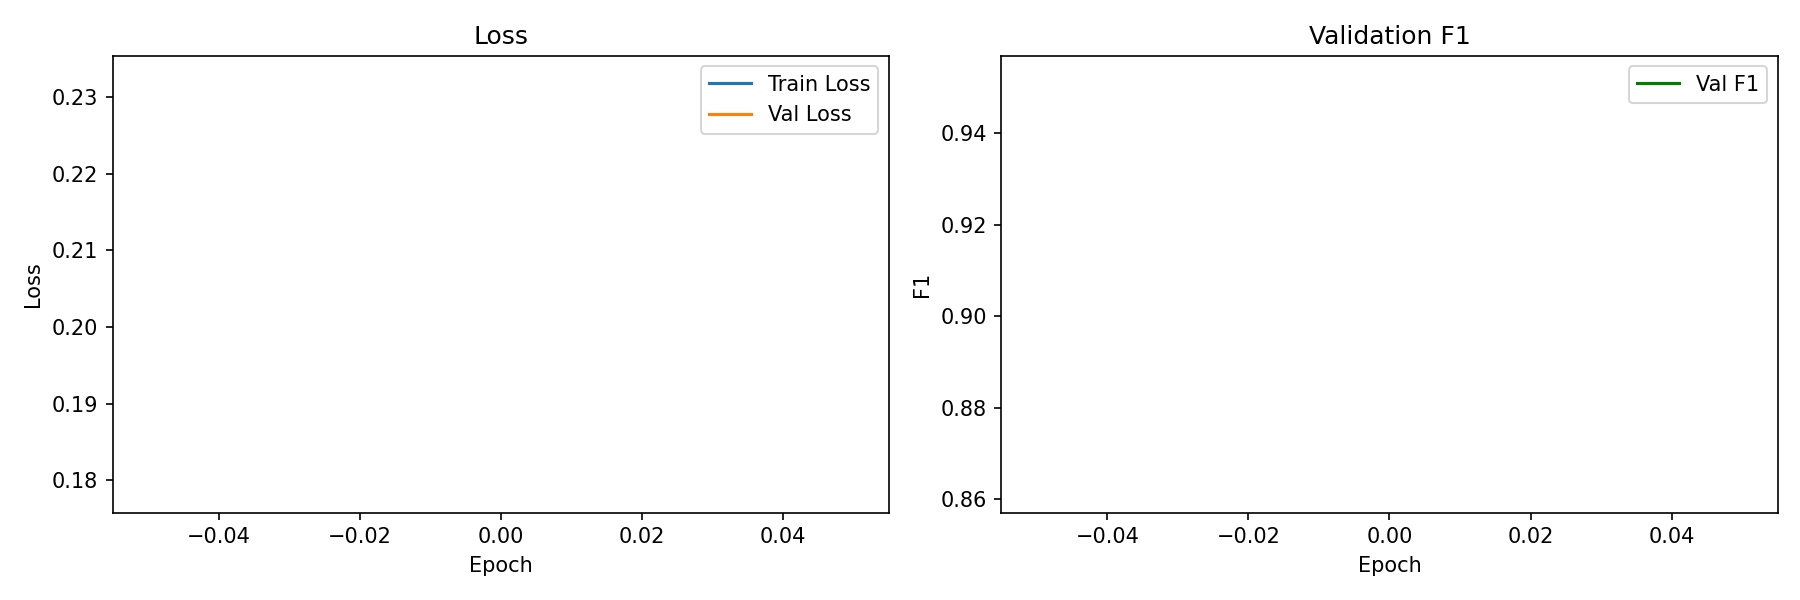
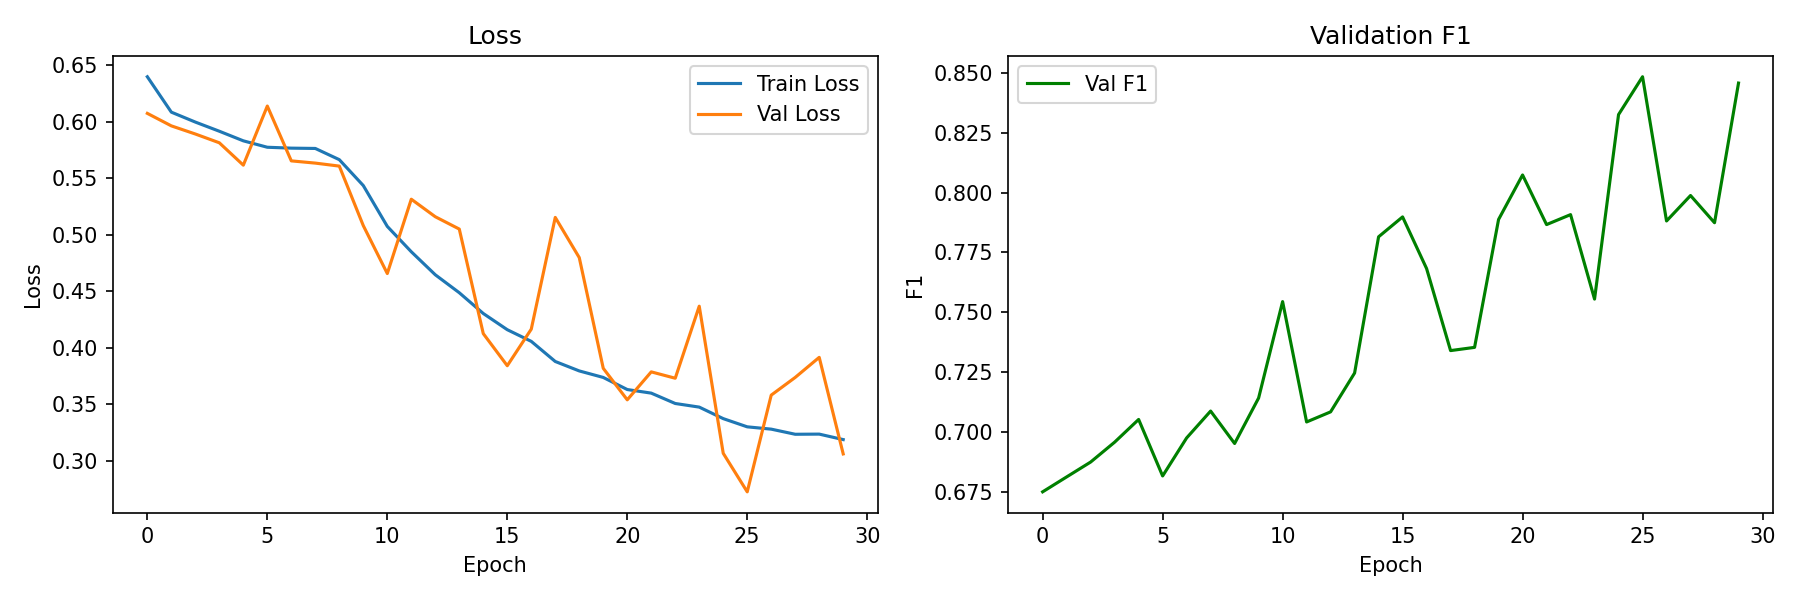
final training script

diff --git a/ML/train.py b/ML/train.py
@@ -9,23 +9,26 @@ from model import PET_Randoms_GNN  # adjust import to wherever your model is def
 
 # ── Config ─────────────────────────────────────────────────────────────────────
 
-DATA_PATH       = rf"C:\Users\Krisps\PET_ML_RandomsCorrection\test"
-SAVE_PATH       = "best_model.pt"
-BATCH_SIZE      = 32
-EPOCHS          = 10
-LR              = 1e-3
+BATCH_SIZE      = 256
+EPOCHS          = 100
+LR              = 2.5e-3
+WEIGHT_DECAY    = 1e-4
+MOMENTUM        = 0.90
 HIDDEN_DIM      = 128
 NUM_GAT_LAYERS  = 2
 HEADS           = 4
 DROPOUT         = 0.2
+precision_multiplier = 1
+CLASSIFICATION_THRESHOLD = 0.5
+SAVE_PATH       = f"Model_BS{BATCH_SIZE}_LR{LR}_HD{HIDDEN_DIM}_NGL{NUM_GAT_LAYERS}_H{HEADS}_D{DROPOUT}_CT{CLASSIFICATION_THRESHOLD}.pt"
 DEVICE          = torch.device("cuda" if torch.cuda.is_available() else "cpu")
 
 print(f"Using device: {DEVICE}")
 
 # ── Data ───────────────────────────────────────────────────────────────────────
 
-train_path = rf"C:\Users\Krisps\PET_ML_RandomsCorrection\training_dataset"
-val_path = rf"C:\Users\Krisps\PET_ML_RandomsCorrection\validation_dataset"
+train_path = rf"C:\Users\Krisps\PET_ML_RandomsCorrection\Data\ML_datasets\training_dataset"
+val_path = rf"C:\Users\Krisps\PET_ML_RandomsCorrection\Data\ML_datasets\validation_dataset"
 
 train = torch.load(train_path, weights_only=False)
 val = torch.load(val_path, weights_only=False)
@@ -43,8 +46,6 @@ def is_valid(data):
 train_dataset = [d for d in train if is_valid(d)]
 val_dataset = [d for d in val if is_valid(d)]
 
-total_dataset = train_dataset.extend(val_dataset)
-
 train_loader = DataLoader(train_dataset, batch_size=BATCH_SIZE, shuffle=True)
 val_loader   = DataLoader(val_dataset,   batch_size=BATCH_SIZE, shuffle=False)
 
@@ -58,6 +59,7 @@ for data in train_dataset:
     num_neg += (data.y == 0).sum().item()
 
 pos_weight = torch.tensor([num_neg / num_pos], dtype=torch.float).to(DEVICE)
+precision_multiplier = pos_weight
 
 print(f"Pos edges: {int(num_pos):,} | Neg edges: {int(num_neg):,} | pos_weight: {pos_weight.item():.2f}")
 
@@ -71,7 +73,7 @@ model = PET_Randoms_GNN(
     dropout_rate=DROPOUT
 ).to(DEVICE)
 
-optimizer = torch.optim.SGD(model.parameters(), lr=LR, momentum=0.9, weight_decay=1e-4)
+optimizer = torch.optim.SGD(model.parameters(), lr=LR, momentum=MOMENTUM, weight_decay=WEIGHT_DECAY)
 scheduler = torch.optim.lr_scheduler.ReduceLROnPlateau(optimizer, mode="min", patience=5, factor=0.5)
 criterion = nn.BCEWithLogitsLoss(pos_weight=pos_weight)
 
@@ -99,7 +101,6 @@ def train_one_epoch(loader, epoch):
     return total_loss / len(loader)
 
 @torch.no_grad()
-
 def evaluate(loader, epoch):
     model.eval()
     total_loss = 0
@@ -116,24 +117,26 @@ def evaluate(loader, epoch):
         loss = criterion(out, batch.y)
         total_loss += loss.item()
 
-        preds = (torch.sigmoid(out) > 0.5).float()
+        preds = (torch.sigmoid(out) > CLASSIFICATION_THRESHOLD).float()
 
         tp += ((preds == 1) & (batch.y == 1)).sum().item()
         fp += ((preds == 1) & (batch.y == 0)).sum().item()
         tn += ((preds == 0) & (batch.y == 0)).sum().item()
         fn += ((preds == 0) & (batch.y == 1)).sum().item()
-
+        
         pbar.set_postfix(loss=f"{loss.item():.4f}")
 
     avg_loss  = total_loss / len(loader)
 
     precision = tp / (tp + fp + 1e-8)
-    recall    = tp / (tp + fn + 1e-8)
-    f1        = 2 * precision * recall / (precision + recall + 1e-8)
+    recall = tp / (tp + fn + 1e-8)
 
+    f1 = 2 * precision * recall / (precision + recall + 1e-8)
+    beta = 0.5
+    f05 = (1 + beta**2) * (precision * recall) / ((beta**2 * precision) + recall + 1e-8)
     accuracy  = (tp + tn) / (tp + fp + tn + fn + 1e-8)
 
-    return avg_loss, accuracy, precision, recall, f1
+    return avg_loss, accuracy, precision, recall, f1, f05
 
 # ── Training Loop ──────────────────────────────────────────────────────────────
 
@@ -144,7 +147,7 @@ epoch_pbar = tqdm(range(1, EPOCHS + 1), desc="Training", unit="epoch")
 
 for epoch in epoch_pbar:
     train_loss = train_one_epoch(train_loader, epoch)
-    val_loss, accuracy, precision, recall, f1 = evaluate(val_loader, epoch)
+    val_loss, accuracy, precision, recall, f1, f05= evaluate(val_loader, epoch)
 
     scheduler.step(val_loss)
 
@@ -183,7 +186,6 @@ for epoch in epoch_pbar:
 
 fig, (ax1, ax2) = plt.subplots(1, 2, figsize=(12, 4))
 
-
 ax1.plot(history["train_loss"], label="Train Loss")
 ax1.plot(history["val_loss"],   label="Val Loss")
 ax1.set_xlabel("Epoch"); ax1.set_ylabel("Loss")
@@ -194,7 +196,9 @@ ax2.set_xlabel("Epoch"); ax2.set_ylabel("F1")
 ax2.set_title("Validation F1"); ax2.legend()
 
 plt.tight_layout()
-plt.savefig("training_curves.png", dpi=150)
+
+training_curve_file = f"training_curves_BS{BATCH_SIZE}_LR{LR}_WD{WEIGHT_DECAY}_M{MOMENTUM}_HD{HIDDEN_DIM}_NGL{NUM_GAT_LAYERS}_H{HEADS}_D{DROPOUT}_PM{2}_CT{CLASSIFICATION_THRESHOLD}.png"
+plt.savefig("Base_Test", dpi=150)
 plt.show()
 
 print(f"\nTraining complete. Best val loss: {best_val_loss:.4f} — model saved to '{SAVE_PATH}'") 

diff --git a/ML/random_hyperparameter_generation.py b/ML/random_hyperparameter_generation.py
@@ -1,0 +1,49 @@
+import random
+import csv
+import os
+from datetime import datetime
+
+def generate_optimization_params(num_configs=5, csv_filename="step1_optimization_search.csv"):
+    """
+    Generates random hyperparameter sets specifically for Step 1: Optimization.
+    Focuses on Learning Rate, Batch Size, and Weight Decay.
+    """
+    
+    fieldnames = [
+        "timestamp", "trial_id", 
+        "lr", "weight_decay", "momentum", "patience"
+    ]
+
+    file_exists = os.path.isfile(csv_filename)
+
+    with open(csv_filename, mode='a', newline='') as f:
+        writer = csv.DictWriter(f, fieldnames=fieldnames)
+        
+        if not file_exists:
+            writer.writeheader()
+
+        for _ in range(num_configs):
+            lr = round(10**random.uniform(-4, -1.3), 6)
+            
+            # 10**-6 to 10**-3
+            weight_decay = round(10**random.uniform(-6, -3), 7)
+
+            config = {
+                "timestamp": datetime.now().strftime("%Y-%m-%d %H:%M:%S"),
+                "trial_id": f"opt_{random.randint(1000, 9999)}",
+                
+                # The "Engine" Parameters
+                "lr": lr,
+                "weight_decay": weight_decay,
+                "momentum": random.choice([0.9, 0.95, 0.99]), # Specific to SGD
+                
+                # Training Duration Guidelines
+                "patience": 15 
+            }
+            
+            writer.writerow(config)
+
+if __name__ == "__main__":
+    # Generate 10 sets of parameters to start your search
+    generate_optimization_params(num_configs=10)
+    print(f"\nOptimization parameters saved to step1_optimization_search.csv")
